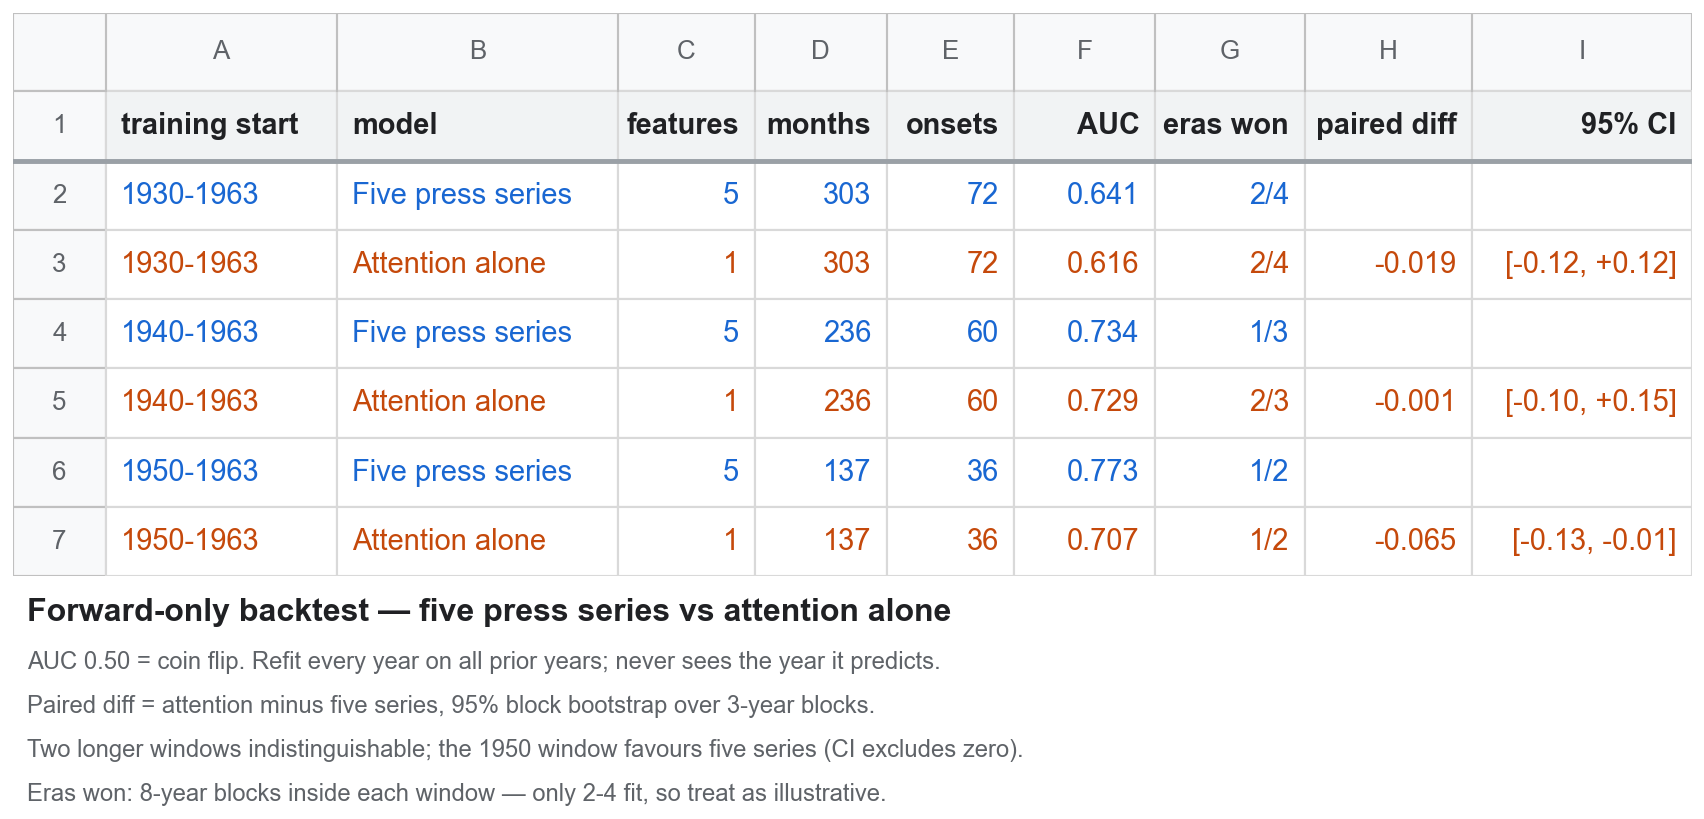
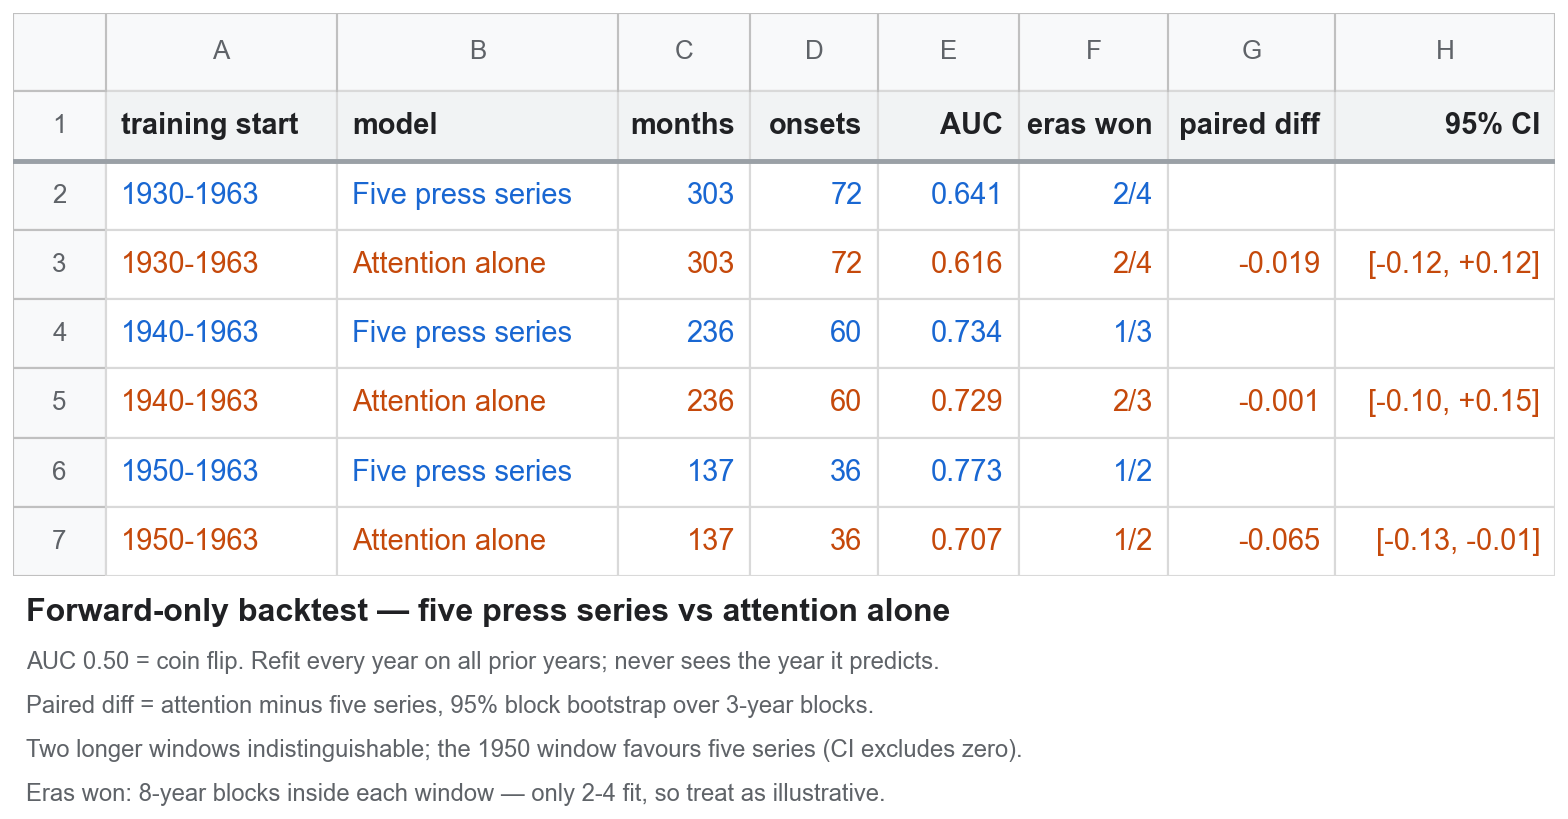
no

diff --git a/more_model_images/make_recession_model_graphs.py b/more_model_images/make_recession_model_graphs.py
@@ -1,0 +1,254 @@
+"""Chart versions of the two recession-model result tables.
+
+  fig_forward_test.png   what sheets_forward_test.png says: forward-only AUC for
+                         the five-press-series model vs attention alone, in three
+                         training windows, plus the paired difference and its CI.
+  fig_per_period.png     what sheets_per_period.png says: AUC and Brier per decade
+                         under the 1930 start, for both models.
+
+Both read the same CSVs the tables read (broad_vs_attention_table.csv,
+per_period_table.csv), so a chart and its table can never disagree.
+
+Form: paired dot plots ("dumbbells"), not grouped bars. The quantity being read
+off these tables is the GAP between two models measured on the same months, and a
+dumbbell puts that gap on the page as a length. Bars would spend most of their ink
+on the 0-to-0.5 region that AUC does not use, and broad_vs_attention.png already
+covers the bar-with-whiskers view of the first table.
+
+Colour: two categorical hues doing identity work only, validated for CVD
+separation (protan ΔE 27.7 / normal ΔE 33.5). Reference lines are gray so no
+reader mistakes them for a series.
+
+Run from the repo root:  python more_model_images/make_recession_model_graphs.py
+"""
+from pathlib import Path
+
+import matplotlib
+matplotlib.use("Agg")
+import matplotlib.pyplot as plt
+import numpy as np
+import pandas as pd
+
+OUT = Path(__file__).parent
+
+BLUE, ORANGE = "#1967d2", "#c5490b"
+INK, MUTED, FAINT = "#202124", "#5f6368", "#9aa0a6"
+GRID, RULE = "#e8eaed", "#dadce0"
+BAD = "#b3261e"
+
+plt.rcParams.update({
+    "figure.dpi": 220, "savefig.dpi": 220,
+    "font.family": "sans-serif",
+    "font.sans-serif": ["Arial", "Helvetica", "DejaVu Sans"],
+    "font.size": 10, "text.color": INK,
+    "axes.spines.top": False, "axes.spines.right": False,
+    "axes.spines.left": False, "axes.edgecolor": RULE,
+    "xtick.color": MUTED, "ytick.color": INK,
+    "axes.axisbelow": True})
+
+# Paired difference (attention - five series) with its 95% block bootstrap CI,
+# carried over from the table so both renderings quote one computation.
+PAIRED = {1930: (-0.019, -0.12, +0.12),
+          1940: (-0.001, -0.10, +0.15),
+          1950: (-0.065, -0.13, -0.01)}
+
+FIVE, ATTN = "Five press series", "Attention alone"
+
+
+def dumbbell(ax, y, lo_val, hi_val, lo_col, hi_col, fmt="{:.3f}", pad=0.006,
+             label=True):
+    """One paired row. Labels go OUTSIDE the pair -- the two dots can sit 0.005
+    apart (1940) and inside labels would land on top of each other."""
+    ax.plot([lo_val, hi_val], [y, y], color=FAINT, lw=2, zorder=2,
+            solid_capstyle="round")
+    for v, c in [(lo_val, lo_col), (hi_val, hi_col)]:
+        ax.plot([v], [y], "o", ms=11, color=c, mec="white", mew=1.8, zorder=4)
+    if label:
+        # Ink, not the series colour: each number sits against its own dot, so
+        # the dot carries identity and the text stays readable next to the red
+        # period labels in fig_per_period.
+        ax.text(lo_val - pad, y, fmt.format(lo_val), ha="right", va="center",
+                fontsize=9.5, color=INK, fontweight="600", zorder=5)
+        ax.text(hi_val + pad, y, fmt.format(hi_val), ha="left", va="center",
+                fontsize=9.5, color=INK, fontweight="600", zorder=5)
+
+
+def pair(a_val, a_col, b_val, b_col):
+    """(low, high) with each value's own colour attached."""
+    return ((a_val, a_col), (b_val, b_col)) if a_val <= b_val else \
+           ((b_val, b_col), (a_val, a_col))
+
+
+def legend_dots(fig, x, y, items, fontsize=10):
+    """Legend drawn in figure space so neither panel has to give up plot area."""
+    for i, (color, text) in enumerate(items):
+        fig.text(x + i * 0.22, y, "●", color=color, fontsize=13,
+                 ha="left", va="center")
+        fig.text(x + i * 0.22 + 0.016, y, text, color=INK, fontsize=fontsize,
+                 ha="left", va="center")
+
+
+# --- 1. forward-only backtest ----------------------------------------------
+def forward_test():
+    d = pd.read_csv(OUT / "broad_vs_attention_table.csv")
+    starts = sorted(d["start"].unique())
+    ys = np.arange(len(starts))
+
+    fig, (ax1, ax2) = plt.subplots(
+        1, 2, figsize=(11.2, 3.9), gridspec_kw={"width_ratios": [1.75, 1],
+                                                "wspace": 0.30})
+
+    for y, s in zip(ys, starts):
+        w = d[d["start"] == s].set_index("model")
+        (lo, lo_c), (hi, hi_c) = pair(w.loc[FIVE, "auc"], BLUE,
+                                      w.loc[ATTN, "auc"], ORANGE)
+        dumbbell(ax1, y, lo, hi, lo_c, hi_c)
+
+    ax1.axvline(.5, color=FAINT, lw=1.3, ls="--", zorder=1)
+    ax1.text(.5, -0.72, "coin flip", color=MUTED, fontsize=9, ha="center",
+             va="center")
+    rows = []
+    for s in starts:
+        w = d[d["start"] == s].iloc[0]
+        rows.append(f"{s}–1963\n{w['months']} months · "
+                    f"{w['onsets']} onsets")
+    ax1.set_yticks(ys); ax1.set_yticklabels(rows, fontsize=10.5)
+    ax1.set_ylim(len(starts) - .35, -1.05)
+    ax1.set_xlim(.44, .84)
+    ax1.set_xticks([.5, .6, .7, .8])
+    ax1.set_xticklabels(["0.50", "0.60", "0.70", "0.80"], fontsize=9.5)
+    ax1.set_xlabel("forward-only ROC-AUC   (higher is better)", fontsize=10,
+                   color=MUTED)
+    ax1.grid(axis="x", color=GRID, lw=.8)
+    ax1.tick_params(axis="y", length=0)
+
+    # Right: the comparison the table's last two columns exist to make. A CI
+    # crossing zero is the finding for the two longer windows, so it is drawn
+    # in gray -- only the 1950 window earns a coloured mark.
+    for y, s in zip(ys, starts):
+        dlt, lo, hi = PAIRED[s]
+        sig = not (lo <= 0 <= hi)
+        c = BAD if sig else FAINT
+        ax2.plot([lo, hi], [y, y], color=c, lw=2.4, solid_capstyle="round",
+                 zorder=3, alpha=1 if sig else .75)
+        ax2.plot([dlt], [y], "o", ms=10, color=c, mec="white", mew=1.8, zorder=4)
+        # Label on the far side from zero, so it never lands on the zero rule.
+        ax2.text(lo - .012, y, f"{dlt:+.3f}", ha="right", va="center",
+                 fontsize=9.5, color=BAD if sig else INK, fontweight="600")
+    ax2.axvline(0, color=FAINT, lw=1.3, ls="--", zorder=1)
+    ax2.text(0, -0.72, "no difference", color=MUTED, fontsize=9, ha="center",
+             va="center")
+    ax2.set_yticks(ys); ax2.set_yticklabels([])
+    ax2.set_ylim(len(starts) - .35, -1.05)
+    ax2.set_xlim(-.25, .22)
+    ax2.set_xticks([-.15, 0, .15])
+    ax2.set_xticklabels(["−0.15", "0", "+0.15"], fontsize=9.5)
+    ax2.set_xlabel("attention − five series, 95% CI", fontsize=10,
+                   color=MUTED)
+    ax2.grid(axis="x", color=GRID, lw=.8)
+    ax2.tick_params(axis="y", length=0)
+
+    fig.suptitle("One press feature matches five in the two longer windows",
+                 fontsize=13.5, fontweight="600", x=.008, ha="left", y=1.10)
+    fig.text(.008, 1.015, "Recession onset within 12 months · model refit "
+             "every year on all prior years, never on the year it predicts",
+             fontsize=10, color=MUTED, ha="left", va="center")
+    legend_dots(fig, .008, .945, [(BLUE, FIVE), (ORANGE, ATTN)])
+    fig.text(.008, -.16,
+             "95% block bootstrap over 3-year blocks. The 1930 and 1940 windows' "
+             "intervals cross zero — the two models are\n"
+             "indistinguishable there. Only the shortest window (137 months) "
+             "separates them, and it favours the five-series model.\n"
+             "Eras won (8-year blocks): 2/4, 1/3, 1/2 for five series — too "
+             "few blocks to read as a test.",
+             fontsize=8.6, color=MUTED, ha="left", va="top", linespacing=1.6)
+
+    p = OUT / "fig_forward_test.png"
+    fig.savefig(p, bbox_inches="tight", facecolor="white", pad_inches=.10)
+    plt.close(fig)
+    print(f"-> {p}")
+
+
+# --- 2. per-period performance ---------------------------------------------
+def per_period():
+    d = pd.read_csv(OUT / "per_period_table.csv")
+    # The all-period row is a summary, not a fifth period: it goes below a rule
+    # so no one reads it as another independent observation.
+    is_tot = d["period"].astype(str).str.contains("all")
+    rows = d[~is_tot].to_dict("records") + d[is_tot].to_dict("records")
+    n_per = int((~is_tot).sum())
+    ys = list(np.arange(n_per)) + [n_per + .55]
+
+    fig, (ax1, ax2) = plt.subplots(1, 2, figsize=(11.2, 4.5),
+                                   gridspec_kw={"wspace": 0.28})
+
+    for y, r in zip(ys, rows):
+        (lo, lc), (hi, hc) = pair(r["auc_five"], BLUE, r["auc_attn"], ORANGE)
+        dumbbell(ax1, y, lo, hi, lc, hc, pad=.014)
+        (blo, blc), (bhi, bhc) = pair(r["brier_five"], BLUE,
+                                      r["brier_attn"], ORANGE)
+        dumbbell(ax2, y, blo, bhi, blc, bhc, pad=.006)
+        # What a model that only knows the base rate would score. Brier without
+        # this reference is an unreadable number: 0.21 in the 1960s is WORSE
+        # than 0.23 in the 1940s once the onset rate is accounted for.
+        base = r["base_rate"]
+        ax2.plot([base * (1 - base)], [y], marker="|", ms=13, mew=2.2,
+                 color=FAINT, zorder=3)
+
+    ax1.axvline(.5, color=FAINT, lw=1.3, ls="--", zorder=1)
+    ax1.text(.5, -0.80, "coin flip", color=MUTED, fontsize=9, ha="center",
+             va="center")
+    labs = [f"{r['period']}\n{r['months']} months · {r['onsets']} onsets"
+            for r in rows]
+    for ax in (ax1, ax2):
+        ax.set_yticks(ys)
+        ax.set_ylim(max(ys) + .45, -1.15)
+        ax.grid(axis="x", color=GRID, lw=.8)
+        ax.tick_params(axis="y", length=0)
+        ax.axhline((n_per - 1 + ys[-1]) / 2, color=RULE, lw=1)
+    ax1.set_yticklabels(labs, fontsize=10)
+    ax2.set_yticklabels([])
+    for t, r in zip(ax1.get_yticklabels(), rows):
+        if max(r["auc_attn"], r["auc_five"]) < .5:
+            t.set_color(BAD)
+
+    ax1.set_xlim(-.01, .95)
+    ax1.set_xticks([.1, .3, .5, .7, .9])
+    ax1.set_xticklabels(["0.10", "0.30", "0.50", "0.70", "0.90"], fontsize=9.5)
+    ax1.set_xlabel("ROC-AUC   (higher is better)", fontsize=10, color=MUTED)
+    ax2.set_xlim(.10, .47)
+    ax2.set_xticks([.15, .25, .35, .45])
+    ax2.set_xticklabels(["0.15", "0.25", "0.35", "0.45"], fontsize=9.5)
+    ax2.set_xlabel("Brier score   (LOWER is better)", fontsize=10, color=MUTED)
+
+    fig.suptitle("Both models rank the 1940s and 1950s — and run backwards "
+                 "either side of them",
+                 fontsize=13.5, fontweight="600", x=.008, ha="left", y=1.09)
+    fig.text(.008, 1.010, "Real-time performance by decade, 1930 start — "
+             "the longest forward-only run, so every decade is predicted by a "
+             "model that never saw it",
+             fontsize=10, color=MUTED, ha="left", va="center")
+    legend_dots(fig, .008, .950, [(BLUE, FIVE), (ORANGE, ATTN)])
+    # Drawn, not typed: the heavy vertical-bar glyph is missing from Arial and
+    # renders as a tofu box.
+    fig.add_artist(plt.Line2D([.458, .458], [.938, .962], color=FAINT, lw=2.4))
+    fig.text(.468, .950, "base-rate forecast (Brier reference)", color=INK,
+             fontsize=10, ha="left", va="center")
+    fig.text(.008, -.13,
+             "Red labels mark decades where both models rank BACKWARDS "
+             "(AUC below 0.50). Each decade rests on 1–3 independent "
+             "3-year blocks\n"
+             "— descriptive, not tests. Accuracy is deliberately not "
+             "reported: at a 24% onset rate, always answering 'no onset' "
+             "scores 76% while ranking nothing.",
+             fontsize=8.6, color=MUTED, ha="left", va="top", linespacing=1.6)
+
+    p = OUT / "fig_per_period.png"
+    fig.savefig(p, bbox_inches="tight", facecolor="white", pad_inches=.10)
+    plt.close(fig)
+    print(f"-> {p}")
+
+
+if __name__ == "__main__":
+    forward_test()
+    per_period()

diff --git a/more_model_images/make_sheets_style_tables.py b/more_model_images/make_sheets_style_tables.py
@@ -128,18 +128,18 @@ def forward_sheet():
     rows, colors = [], []
     for _, r in cmp.iterrows():
         attn = r["model"] == "Attention alone"
-        rows.append([f"{r['start']}-1963", r["model"], str(r["k"]), str(r["months"]),
+        rows.append([f"{r['start']}-1963", r["model"], str(r["months"]),
                      str(r["onsets"]), f"{r['auc']:.3f}", f"{r['eras_won']}/{r['n_eras']}",
                      PAIRED[r["start"]][0] if attn else "",
                      PAIRED[r["start"]][1] if attn else ""])
         colors.append(ACCENT_ORANGE if attn else ACCENT_BLUE)
     render_sheet(
         OUT / "sheets_forward_test.png",
-        ["training start", "model", "features", "months", "onsets", "AUC",
+        ["training start", "model", "months", "onsets", "AUC",
          "eras won", "paired diff", "95% CI"],
         rows,
-        widths=[1.05, 1.28, 0.62, 0.60, 0.58, 0.64, 0.68, 0.76, 1.00],
-        aligns=["l", "l", "r", "r", "r", "r", "r", "r", "r"],
+        widths=[1.05, 1.28, 0.60, 0.58, 0.64, 0.68, 0.76, 1.00],
+        aligns=["l", "l", "r", "r", "r", "r", "r", "r"],
         colors=colors,
         title="Forward-only backtest — five press series vs attention alone",
         notes=["AUC 0.50 = coin flip. Refit every year on all prior years; never sees the year it predicts.",
